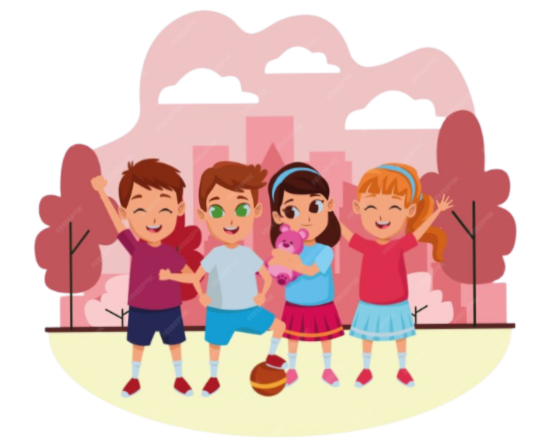
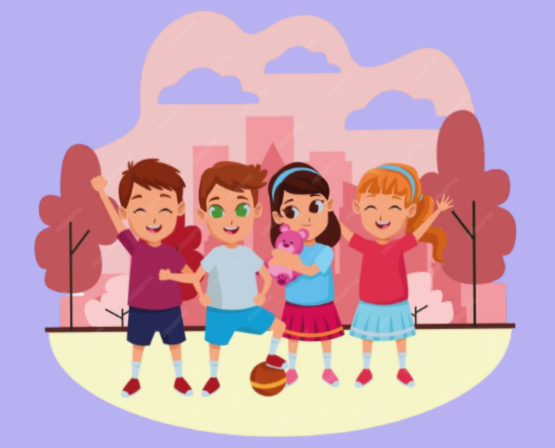
actualización de CSS

diff --git a/style.css b/style.css
@@ -3,7 +3,7 @@
     --color-secondary: #FFF9EB;
     --color-tertiary: #C4C4C4;
     --color-button: #E50046;
-    --color-button-hover: #e55720;
+    --color-button-hover: #7E1891;
     --color-text: #444444;
     --color-white: #FFFFFF;
 }
@@ -65,7 +65,7 @@ body {
     font-family: "Inter", serif;
     font-size: 36px;
     font-weight: 700;
-    color: var(--color-primary);
+    color: var(--color-button);
     margin: 10px 0;
     text-align: center;
 }
@@ -136,7 +136,7 @@ ul {
 
 .result-list {
     margin-top: 15px;
-    color: #05DF05;
+    color: #AA60C8;
     font-size: 22px;
     font-weight: bold;
     text-align: center;

diff --git a/index.html b/index.html
@@ -14,7 +14,7 @@
     <main class="main-content">
         <header class="header-banner">
             <h1 class="main-title">Amigo Secreto</h1>
-            <img src="assets/imagen-amigo-secreto.png" alt="Imagen representativa de amigo secreto">
+            <img src="assets/imagen.png" alt="Imagen representativa de amigo secreto">
         </header>
         
         <section class="input-section">
